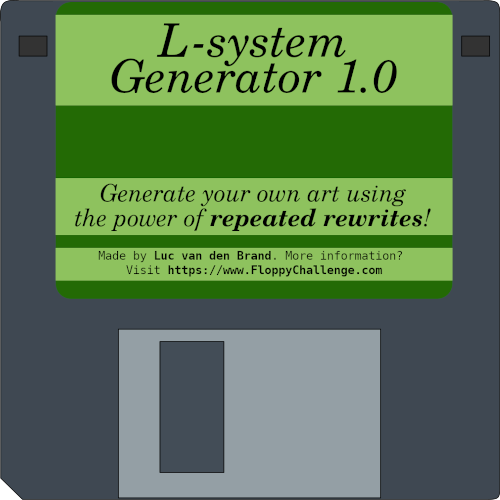
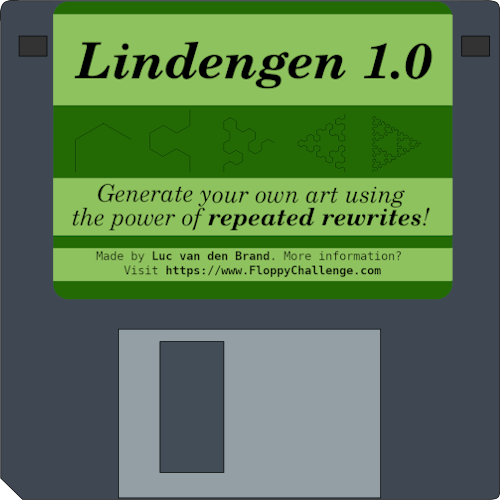
Updated docs.

Changed region(s): [[0.09, 0.0, 0.9, 0.6], [0.75, 0.24, 0.78, 0.27]]

diff --git a/docs/index.html b/docs/index.html
@@ -78,7 +78,7 @@
                             <img class="image" src="floppy_3.png" ></img>
                             This simple tool allows you to generate beautiful fractal images using the power of L-systems!
                             <div class="button-bar">
-                                <a class="button" href="https://github.com/LucvandenBrand/FloppyChallenge/releases/tag/L-SYSTEM-GENERATOR" target="_blank">Get it here!</a>
+                                <a class="button" href="https://github.com/LucvandenBrand/FloppyChallenge/releases/tag/LINDENGEN" target="_blank">Get it here!</a>
                             </div>
                         </div>
                     </div>
